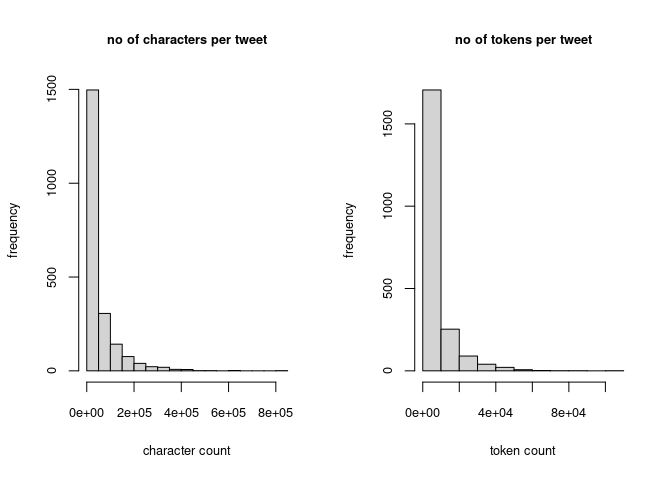
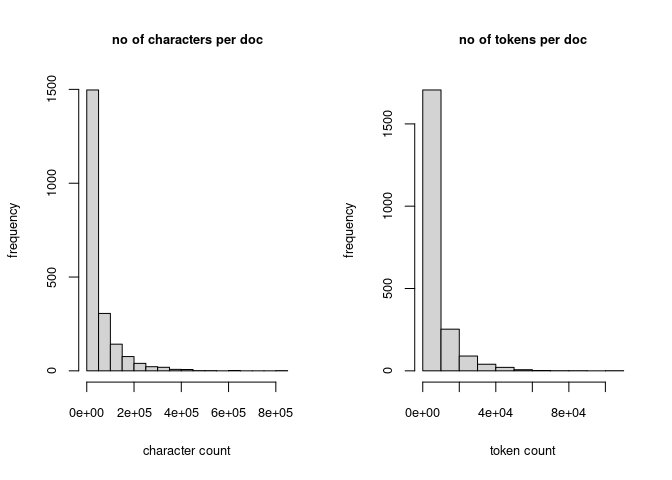
Fix wording.

Changed region(s): [[0.1562, 0.0625, 0.4062, 0.0938], [0.6562, 0.0625, 0.875, 0.0938]]

diff --git a/doc/topic-modeling/modeling-report.md b/doc/topic-modeling/modeling-report.md
@@ -43,12 +43,12 @@ as_tibble(head(raw_docs))
 In this section, we outline and implement covariate, character, document
 & token level transformation steps. Covariates transformation include
 datetime conversion & state extraction. Character level processing
-transforms the tweets to lower case, removes XML tags, removes links,
+transforms the docs to lower case, removes XML tags, removes links,
 unusual characters, and collapses multiple spaces. Document-level
-processing is conservative; we keep only tweets written in English and
+processing is conservative; we keep only docs written in English and
 originated in the US/UK. Consequently, we annotate the tokens with
-`udpipe` and retain only `VERB`, `ADJ` & `NOUN` observed in at least ten
-separate tweets.
+`udpipe` and retain only `VERB`, `ADJ` & `NOUN` observed in at least 250
+separate docs.
 
 ### Character & document-level processing
 
@@ -185,10 +185,10 @@ meta = processed$meta
 ## Exploratory data analysis
 
 Within this section, we extract & examine selected properties of the
-processed tweets.
+processed docs.
 
 ``` r
-# tweets per year
+# per year
 barplot(table(meta$economy_type),
      main="no of participants",
      xlab="economy type",
@@ -204,20 +204,20 @@ since. The behavior is aligned with what we see in the original data
 set.
 
 ``` r
-# tokens & chars per tweet
+# tokens & chars per doc
 n_chars = nchar(meta$text)
 n_tokens = stringr::str_count(meta$text, "\\w+")
 
 par(mfrow=c(1,2))
 hist(n_chars,
-     main="no of characters per tweet",
+     main="no of characters per doc",
      ylab="frequency",
      xlab="character count",
      cex.main=0.8,
      cex.axis=0.8,
      cex.lab=0.8)
 hist(n_tokens,
-     main="no of tokens per tweet",
+     main="no of tokens per doc",
      ylab="frequency",
      xlab="token count",
      cex.main=0.8,
@@ -364,12 +364,12 @@ plot(stm_model, type="labels", labeltype = "score", main="score",
 <img src="img/modeling-report/topic_labeling-1.png" style="display: block; margin: auto;" />
 
 Furthermore, latent factors are examined from the perspective of the
-most representative documents. For each topic, we extract only tweets
-with a prevalence of 25 % or higher. For each tweet, original raw text
-is printed.
+most representative documents. For each topic, we extract only docs with
+a prevalence of 25 % or higher. For each doc, original raw text is
+printed.
 
 ``` r
-# top tweets per topic
+# top docs per topic
 ft = findThoughts(stm_model, texts=meta$text, topics=1:stm_model$settings$dim$K,
   thresh=0.25, meta=meta)
 ft_df = lapply(names(ft$index),
@@ -422,7 +422,7 @@ plot(ee, model=stm_model, topics=1:stm_model$settings$dim$K, method="difference"
 
 The topic model allows for correlation between topics; positive
 correlation suggests that both subjects are likely to be discussed
-within one tweet. We construct a network with positive correlations
+within one doc. We construct a network with positive correlations
 between factors, we ignore the asymptotic p-values.
 
 ``` r
